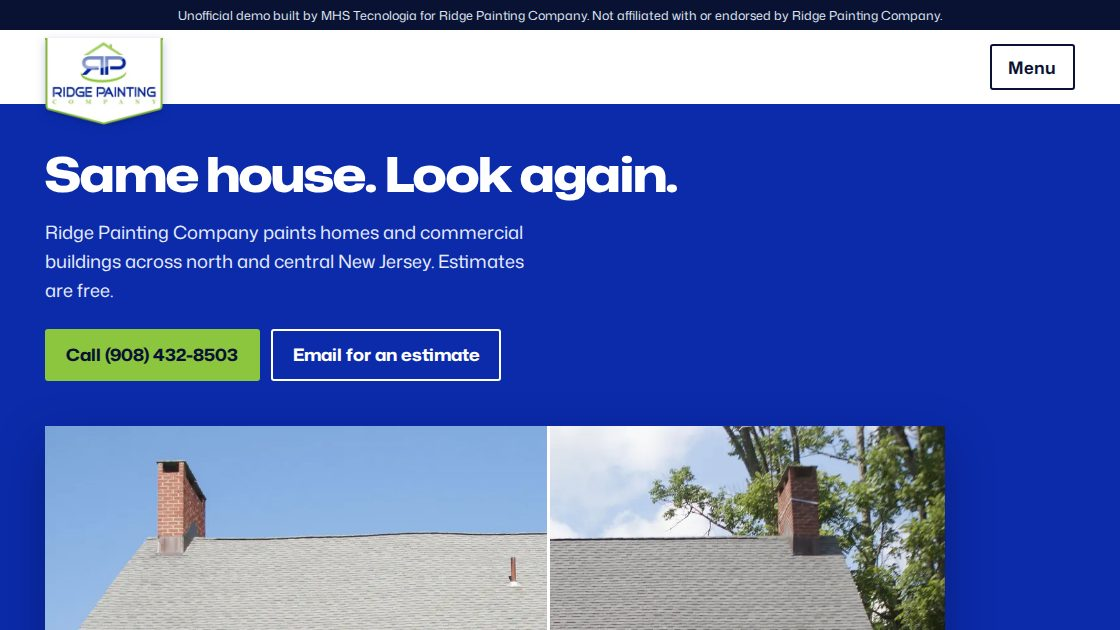
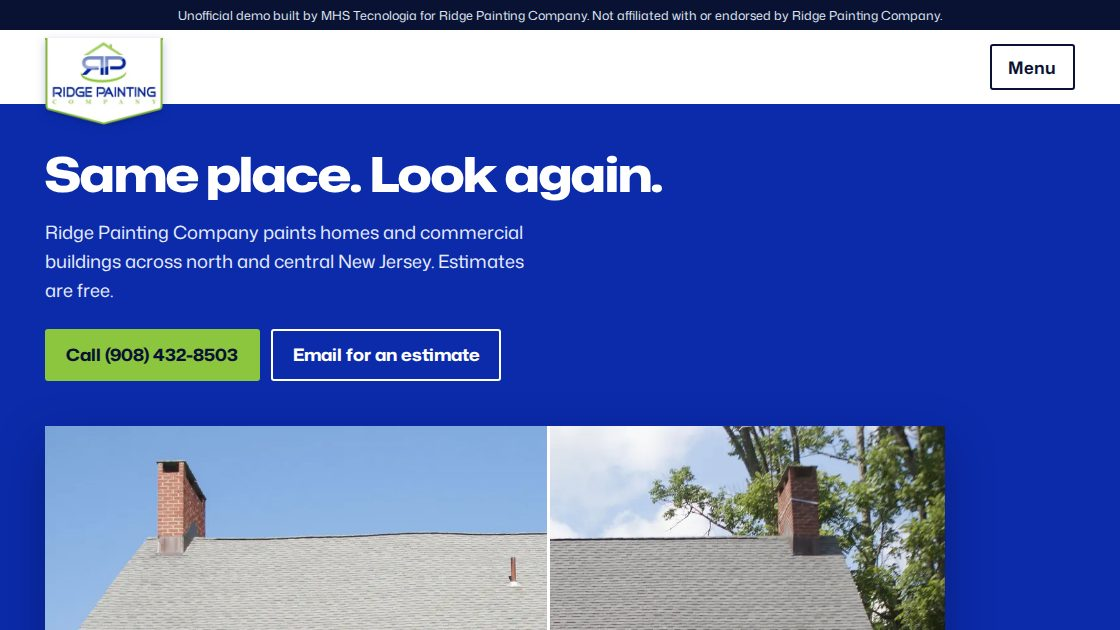
Previews: 62 ativos

Changed region(s): [[0.1875, 0.2413, 0.625, 0.3317]]

diff --git a/ridge-painting-basking-ridge-nj/index.html b/ridge-painting-basking-ridge-nj/index.html
@@ -282,15 +282,15 @@ html { scroll-behavior: auto; }
 <main id="main">
 <section class="hero"><div class="coat"></div><div class="wrap">
 <div class="copy">
-<h1>Same house. Look&nbsp;again.</h1>
+<h1>Same place. Look&nbsp;again.</h1>
 <p>Ridge Painting Company paints homes and commercial buildings across north and central New Jersey. Estimates are free.</p>
 <div class="acts"><a class="btn lime" href="tel:+19084328503">Call (908) 432-8503</a><a class="btn line" href="mailto:service@ridgepaintingcompany.com?subject=Painting%20estimate%20request">Email for an estimate</a></div>
 </div>
 <figure style="max-width:1400px">
 <div class="ba" style="--r:1.400">
-<img class="ba-b" src="img/chester-b-800.webp" srcset="img/chester-b-800.webp 800w, img/chester-b-1400.webp 1400w" sizes="(max-width: 1120px) calc(100vw - 32px), 760px" width="1400" height="1000" alt="Before: a two-story colonial building in Chester, NJ, olive and peeling before, gray with a blue door after" fetchpriority="high">
-<img class="ba-a" src="img/chester-a-800.webp" srcset="img/chester-a-800.webp 800w, img/chester-a-1400.webp 1400w" sizes="(max-width: 1120px) calc(100vw - 32px), 760px" width="1400" height="1000" alt="After: a two-story colonial building in Chester, NJ, olive and peeling before, gray with a blue door after" fetchpriority="high">
-<input type="range" min="0" max="100" value="56" aria-label="Move the line to compare before and after: a two-story colonial building in Chester, NJ, olive and peeling before, gray with a blue door after">
+<img class="ba-b" src="img/chester-b-800.webp" srcset="img/chester-b-800.webp 800w, img/chester-b-1400.webp 1400w" sizes="(max-width: 1120px) calc(100vw - 32px), 760px" width="1400" height="1000" alt="Before: a two-story clapboard building in Chester, NJ, olive and peeling before, gray with a blue door after" fetchpriority="high">
+<img class="ba-a" src="img/chester-a-800.webp" srcset="img/chester-a-800.webp 800w, img/chester-a-1400.webp 1400w" sizes="(max-width: 1120px) calc(100vw - 32px), 760px" width="1400" height="1000" alt="After: a two-story clapboard building in Chester, NJ, olive and peeling before, gray with a blue door after" fetchpriority="high">
+<input type="range" min="0" max="100" value="56" aria-label="Move the line to compare before and after: a two-story clapboard building in Chester, NJ, olive and peeling before, gray with a blue door after">
 <span class="ba-line" aria-hidden="true"></span>
 <span class="ba-tag a" aria-hidden="true">After</span><span class="ba-tag b" aria-hidden="true">Before</span>
 </div>
@@ -392,7 +392,7 @@ html { scroll-behavior: auto; }
 <a class="bigtel" href="tel:+19084328503">(908) 432-8503</a>
 <a class="mail" href="mailto:service@ridgepaintingcompany.com?subject=Painting%20estimate%20request">service@ridgepaintingcompany.com</a>
 </div>
-<img src="img/ladders-house-640.webp" srcset="img/ladders-house-640.webp 640w, img/ladders-house-1200.webp 1200w" sizes="(max-width: 860px) calc(100vw - 32px), 520px" width="1200" height="1200" alt="Ridge ladders against a gray colonial house with a blue door, autumn trees behind" loading="lazy" decoding="async" class="photo limit">
+<img src="img/ladders-house-640.webp" srcset="img/ladders-house-640.webp 640w, img/ladders-house-1200.webp 1200w" sizes="(max-width: 860px) calc(100vw - 32px), 520px" width="1200" height="1200" alt="Ridge ladders against a gray clapboard building with a blue door, autumn trees behind" loading="lazy" decoding="async" class="photo limit">
 </div></section>
 <section class="band"><div class="wrap"><details class="towns"><summary>Towns Ridge serves (40)</summary><ul><li>Basking Ridge</li><li>Bedminster</li><li>Bernardsville</li><li>Branchburg</li><li>Bridgewater</li><li>Califon</li><li>Chatham</li><li>Chester</li><li>Far Hills</li><li>Flanders</li><li>Flemington</li><li>Gladstone</li><li>Green Village</li><li>Harding</li><li>Hillsborough</li><li>Livingston</li><li>Long Valley</li><li>Madison</li><li>Martinsville</li><li>Mendham</li><li>Millburn</li><li>Millington</li><li>Morristown</li><li>Mount Olive</li><li>New Vernon</li><li>Oldwick</li><li>Peapack</li><li>Piscataway</li><li>Pluckemin</li><li>Pottersville</li><li>Raritan</li><li>Readington</li><li>Short Hills</li><li>Somerville</li><li>Summit</li><li>Tewksbury</li><li>Warren</li><li>Watchung</li><li>Westfield</li><li>Whitehouse</li></ul></details></div></section>
 </main>

diff --git a/ridge-painting-basking-ridge-nj/contact.html b/ridge-painting-basking-ridge-nj/contact.html
@@ -297,7 +297,7 @@ html { scroll-behavior: auto; }
 <a class="bigmail" href="mailto:service@ridgepaintingcompany.com?subject=Painting%20estimate%20request">service@<wbr>ridgepaintingcompany.com</a>
 <a class="mail" href="tel:+19084328503">(908) 432-8503</a>
 </div>
-<img src="img/ladders-house-640.webp" srcset="img/ladders-house-640.webp 640w, img/ladders-house-1200.webp 1200w" sizes="(max-width: 860px) calc(100vw - 32px), 520px" width="1200" height="1200" alt="Ridge ladders against a gray colonial house with a blue door" loading="lazy" decoding="async" class="photo limit">
+<img src="img/ladders-house-640.webp" srcset="img/ladders-house-640.webp 640w, img/ladders-house-1200.webp 1200w" sizes="(max-width: 860px) calc(100vw - 32px), 520px" width="1200" height="1200" alt="Ridge ladders against a gray clapboard building with a blue door" loading="lazy" decoding="async" class="photo limit">
 </div></section>
 </main>
 <footer class="foot"><div class="wrap">
